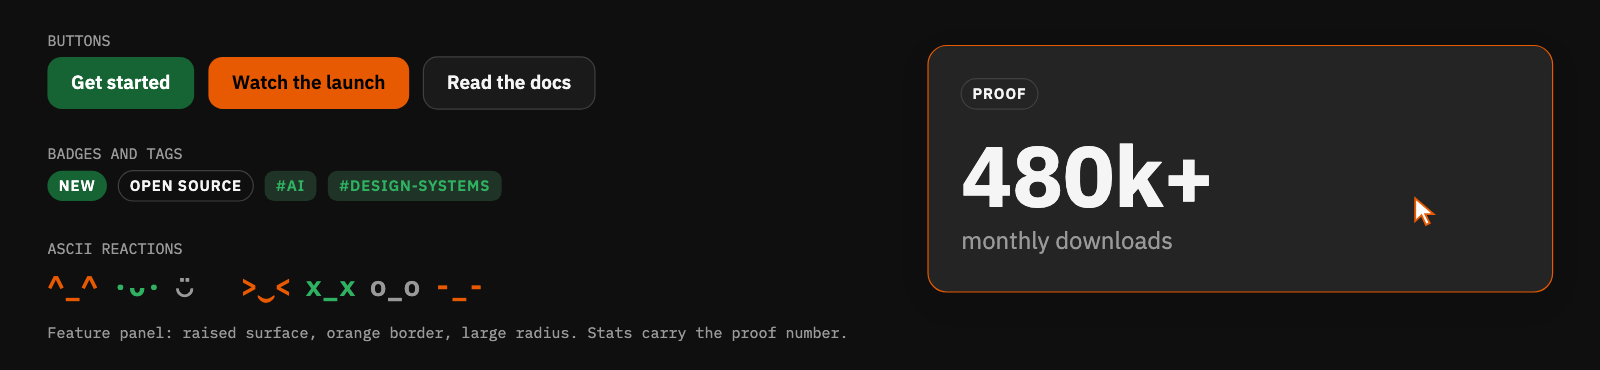
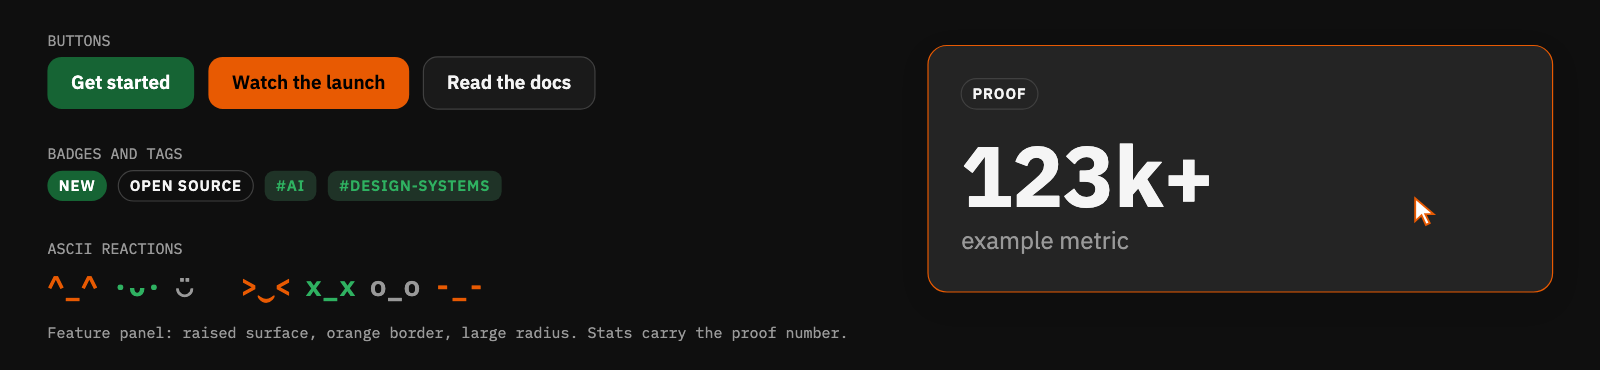
Use an obviously made-up example stat
The sample film, brand.md and the identity images showed 480k+ monthly
downloads, an unverified figure. They now show 123k+ / example metric;
the details card and sample-film GIF are re-rendered.

Changed region(s): [[0.5938, 0.3865, 0.7188, 0.5649], [0.5938, 0.6243, 0.75, 0.6838]]

diff --git a/skills/9k-motion/templates/index.html b/skills/9k-motion/templates/index.html
@@ -51,10 +51,10 @@ const SCENES = [
       const x = (W - pw) / 2, y = H / 2 - ph / 2 + (1 - s) * rem(3);
       g.save(); g.globalAlpha = clamp(t * 5);
       B.panel(g, x, y, pw, ph, { variant: 'feature' });
-      const n = Math.round(480 * tween(t, 0.2, 1.2));
+      const n = Math.round(123 * tween(t, 0.2, 1.2));
       const cx = DIR === 'rtl' ? x + pw - rem(2) : x + rem(2);   // content starts at the panel's logical start
       B.badge(g, 'Open source', cx, y + rem(2), { variant: 'outline', size: rem(1) });
-      B.stat(g, `${n}k+`, 'monthly downloads', cx, y + rem(10), { size: rem(6) });
+      B.stat(g, `${n}k+`, 'example metric', cx, y + rem(10), { size: rem(6) });
       g.restore();
   }},
   { from: 7.8, to: 10, draw(t) {                      // end card: green band, Nino reacts, bare 9k

diff --git a/skills/9k-motion/references/brand.md b/skills/9k-motion/references/brand.md
@@ -84,7 +84,7 @@ Banned: bouncy text, elastic or back easing on type, everything fading in, a cen
 - **Nino** `B.nino(g, x, y, size, {expression, t, look})` is the 9k pixel mascot on a 16×16 grid (64-unit viewBox, crisp edges): green body, `#0A111A` screen, orange eyes, green mouth. Expressions are `idle`, `happy`, `thinking`, `worried`, `surprised` and `eyes-closed`. Motion: a blink every 5.4 s (eyes scaleY 0.15 for 3% of the cycle), a ±2 unit bob over 2.4 s when thinking, and a ±1 unit shiver over 0.6 s when worried. Snap him to whole pixels and never blur or rotate him. **On the green band, pass `colors: { body: B.C.white }`**, because his green body disappears on green.
 - **ASCII emoji** `^_^ ·ᴗ· ◡̈ >‿< x_x o_o -_-` in primary, accent or muted color. Use them as reactions, punctuation beats and winks.
 - **Tags** `#ai #vue #design-systems` as tag-badges.
-- **Stat** is a big value with a small label and an optional source (`480k+ / monthly downloads`). Use it for proof numbers.
+- **Stat** is a big value with a small label and an optional source (`123k+ / example metric`). Use it for proof numbers.
 - **YouTube brand kit (channel videos only):** the illustrated avatar and "9K" mark live in `~/…/Studio/2026/__higgsfield/resources/9k youtube intro/`. Use them only when the user picks the avatar in Round 3.
 
 ## Themes and direction
